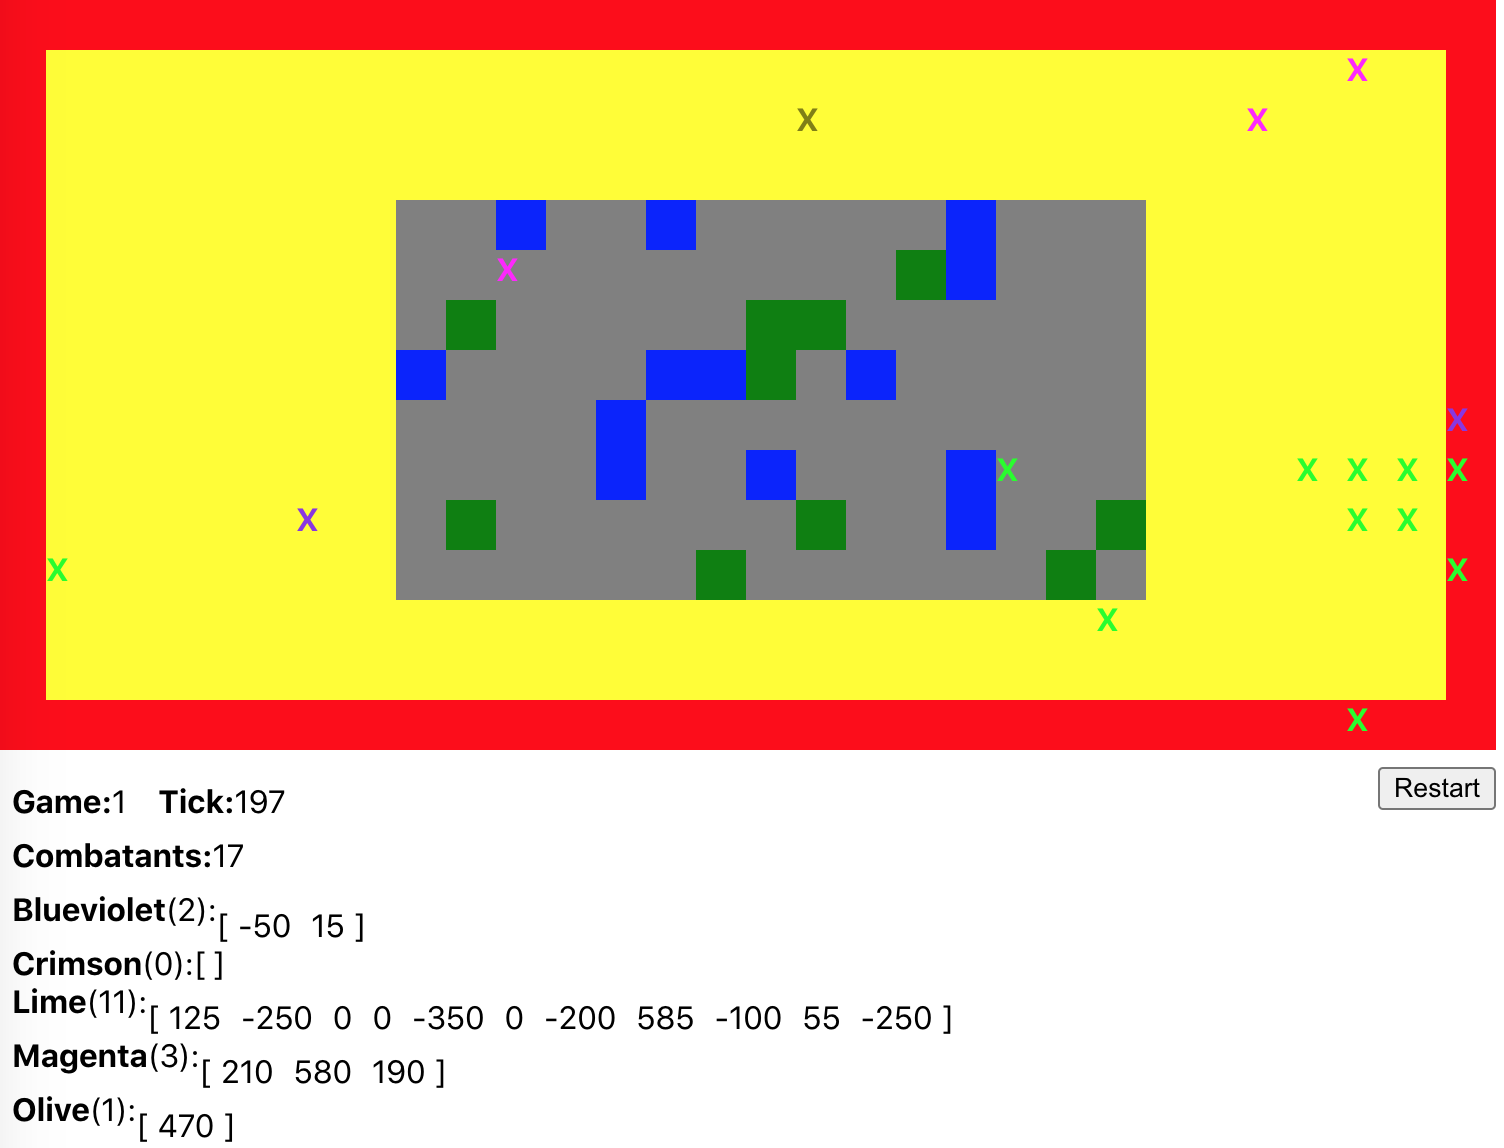
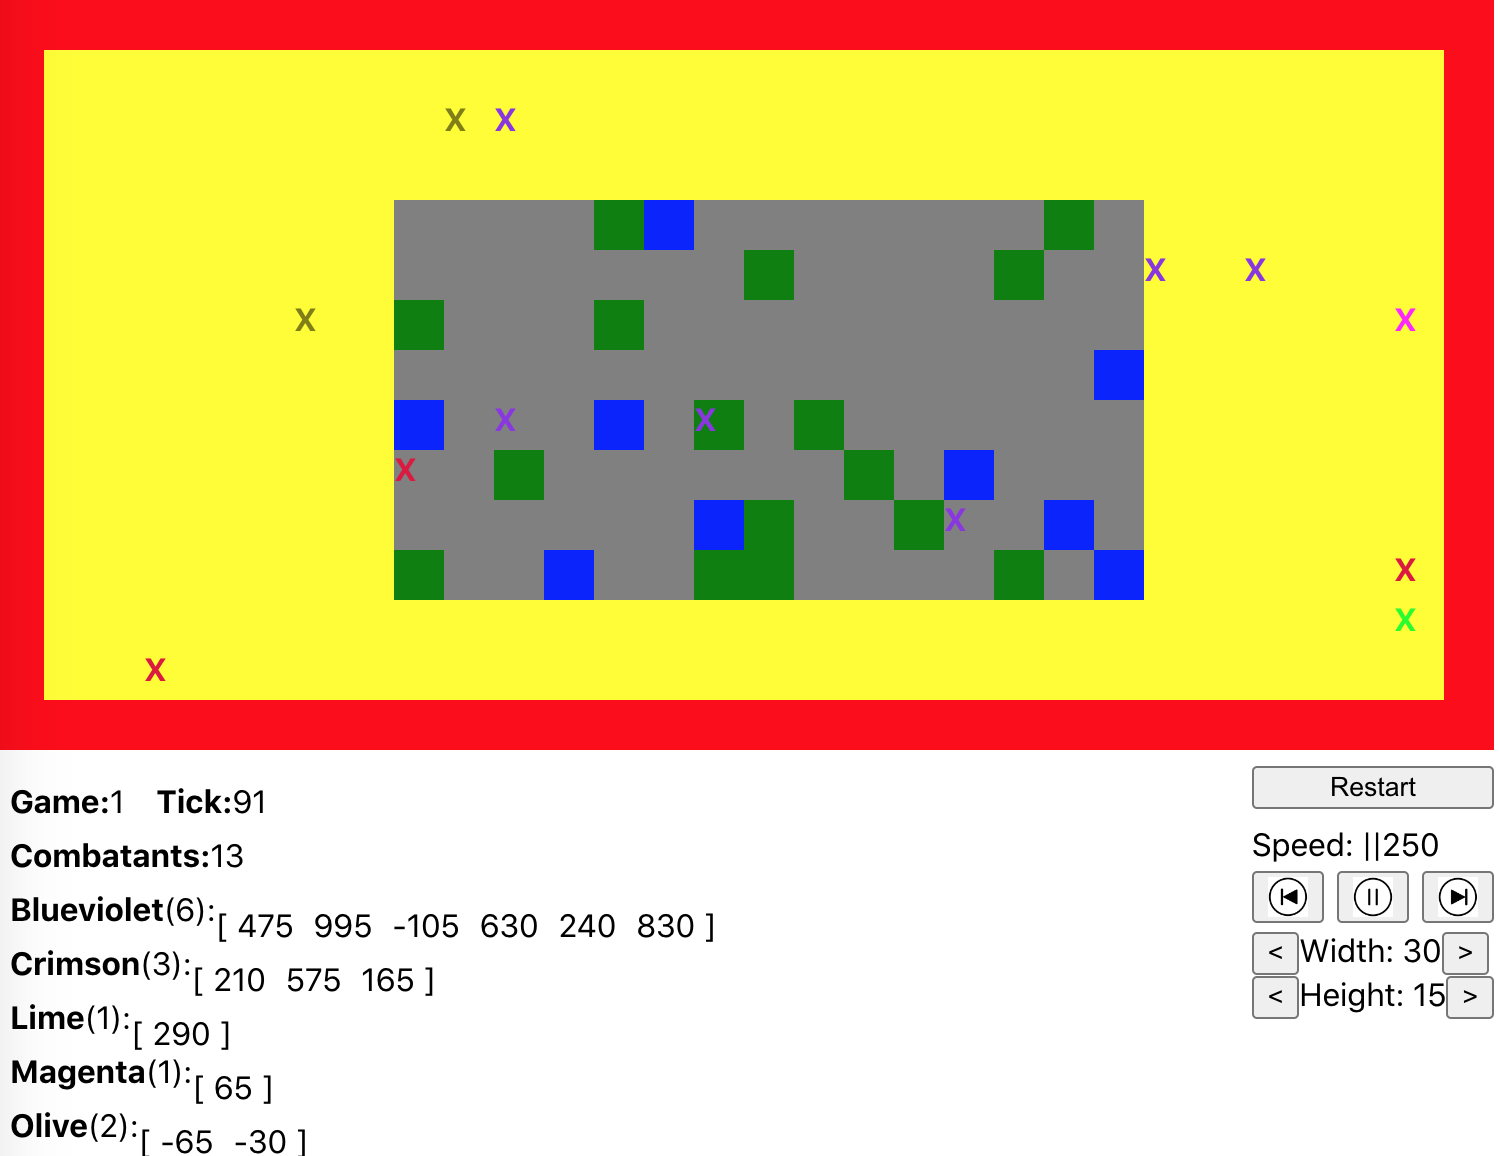
Allows for hot resizing of width and height and handles the moving of combatants and subsequent battles for space (where applicable).

diff --git a/src/components/Arena.js b/src/components/Arena.js
@@ -354,21 +354,71 @@ const printCombatants = ({tick, combatants, window_height, window_width}) => {
     console.debug(print);
 }
 
+const updateCombatantsPositionsAfterResize = ({combatants, window_width, window_height, old_window_width, old_window_height, tiles}) => {
+    const new_combatants = {};
+
+    const dif_row = window_width - old_window_width;
+    const dif_col = window_height - old_window_height;
+    Object.keys(combatants).forEach(k => {
+        let new_pos = k;
+        let coord = [Math.floor(k / old_window_width), k % old_window_width];
+
+        if (coord[1] >= window_width || coord[0] >= window_height) {
+            // they fell off the world; let's try to move them up/left
+            const posData = getSurroundingPos({position: k, window_width: old_window_width, tiles, combatants});
+            const can_move_up = !posData.combatants.t;
+            const can_move_diag = !posData.combatants.tl;
+            const can_move_left = !posData.combatants.l;
+
+            const dice_roll = Math.random();
+
+            if (dice_roll < .33 && can_move_left && dif_col > -1) {
+                new_pos = posData.positions.l;
+                coord = [Math.floor(new_pos / old_window_width), new_pos % old_window_width];
+            } else if (dice_roll < .66 && can_move_up && dif_row > -1) {
+                new_pos = posData.positions.t;
+                coord = [Math.floor(new_pos / old_window_width), new_pos % old_window_width];
+            } else if (can_move_diag) {
+                new_pos = posData.positions.tl;
+                coord = [Math.floor(new_pos / old_window_width), new_pos % old_window_width];
+            } else {
+                new_pos = -1;
+            }
+        }
+        
+        if (dif_row !== 0) {
+            // translate old coord to new coord
+            new_pos = coord[0] * window_width + coord[1];
+        }
+
+        if (new_pos > -1 && new_pos < window_width * window_height) {
+            const occupient = new_combatants[new_pos];
+            // tie goes to whoever got there first.
+            new_combatants[new_pos] = !!occupient ? compete(occupient, combatants[k]) : combatants[k];
+        }
+
+    })
+    return new_combatants;
+}
+
 class Arena extends React.Component {
     constructor() {
         super();
-        this.state = this.getInitState();
+        this.state = this.getInitState({window_width: WINDOW_WIDTH, window_height: WINDOW_HEIGHT});
     }
 
-    getInitState() {
+    getInitBoard = ({window_width, window_height}) => {
+        const tiles = initDefaultTiles({width: window_width, height: window_height});
+        return tiles;
+    }
+
+    getInitState = ({window_width, window_height}) => {
         const tick = 0;
         const game_count = 1;
-        const window_width = WINDOW_WIDTH;
-        const window_height = WINDOW_HEIGHT;
         const num_combatants = NUM_COMBATANTS;
         const tick_speed = TICK_INTERVAL;
     
-        const tiles = initDefaultTiles({width: window_width, height: window_height});
+        const tiles = this.getInitBoard({window_width, window_height});
         const combatants = {};
         for (let i = 0; i < num_combatants; i++) {
             const c_pos = initCombatantStartingPos({tiles, combatants});
@@ -397,6 +447,15 @@ class Arena extends React.Component {
         this.setState(new_state);
     }
 
+    updateBoard = ({window_width, window_height}) => {
+        const new_state = {};
+        Object.assign(new_state, this.state);
+        new_state.tiles = this.getInitBoard({window_width, window_height});
+        new_state.combatants = updateCombatantsPositionsAfterResize({combatants: this.state.combatants, window_width, window_height, old_window_width: this.state.window_width, old_window_height: this.state.window_height, tiles: new_state.tiles});
+        new_state.window_width = window_width;
+        new_state.window_height = window_height;
+        this.setState(new_state);
+    }
 
     updateTickSpeed = ({tick_speed}) => {
         if (tick_speed < 0) {
@@ -488,6 +547,7 @@ class Arena extends React.Component {
                 onReset={this.reset}
                 onUpdateTickSpeed={this.updateTickSpeed}
                 onPauseUnpause={this.pauseUnpause}
+                onUpdateBoard={this.updateBoard}
             />
         </view>
     );

diff --git a/src/components/Dashboard.js b/src/components/Dashboard.js
@@ -43,7 +43,7 @@ const getColorStats = (combatants) => {
     );
 };
 
-const Dashboard = ({combatants, tiles, tick, tick_speed, game_count, arena_width, arena_height, onReset, onUpdateTickSpeed, onPauseUnpause}) => {
+const Dashboard = ({combatants, tiles, tick, tick_speed, game_count, arena_width, arena_height, onReset, onUpdateTickSpeed, onPauseUnpause, onUpdateBoard}) => {
     const updated = false;
     const colorStats = getColorStats(combatants);
    
@@ -69,6 +69,37 @@ const Dashboard = ({combatants, tiles, tick, tick_speed, game_count, arena_width
             </view> 
         </view>
     );
+    const resize_section = (
+        <>
+            <view>
+                <button onClick={() => {
+                    onUpdateBoard({window_width: arena_width - 1, window_height: arena_height});
+                }}>
+                    <text>{"<"}</text>
+                </button>
+                <text>{`Width: ${arena_width}`}</text>
+                <button onClick={() => {
+                    onUpdateBoard({window_width: arena_width + 1, window_height: arena_height})
+                }}>
+                    <text>{">"}</text>
+                </button>
+            </view> 
+            <view>
+                <button onClick={() => {
+                    onUpdateBoard({window_width: arena_width, window_height: arena_height - 1})
+                }}>
+                    <text>{"<"}</text>
+                </button>
+                <text>{`Height: ${arena_height}`}</text>
+                <button onClick={() => {
+                    onUpdateBoard({window_width: arena_width, window_height: arena_height + 1})
+                }}>
+                    <text>{">"}</text>
+                </button>
+            </view> 
+        </>
+    );
+
     return (
         <view className={'Dashboard'}>
             <view className="stat_container">
@@ -88,6 +119,7 @@ const Dashboard = ({combatants, tiles, tick, tick_speed, game_count, arena_width
             <view className="Control_container">
                 <button className={`Update_button${updated ? " updated" : ""}`} onClick={() => onReset()}><text>{"Restart"}</text></button>
                 {speed_section}
+                {resize_section}
             </view>
         </view>
     )
